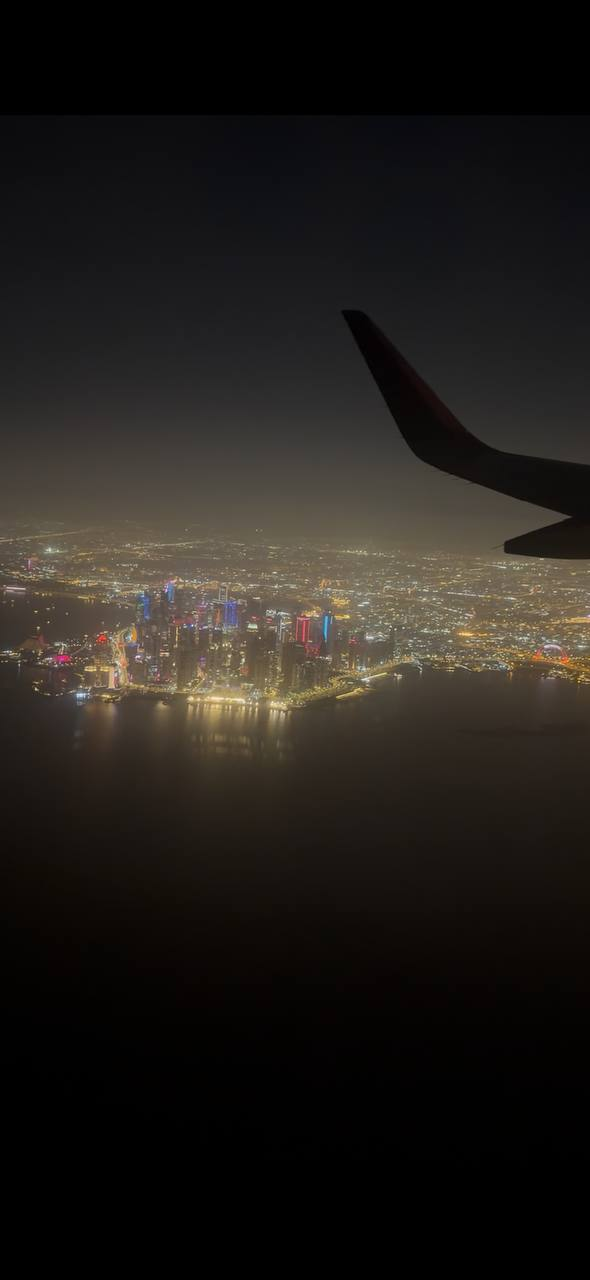
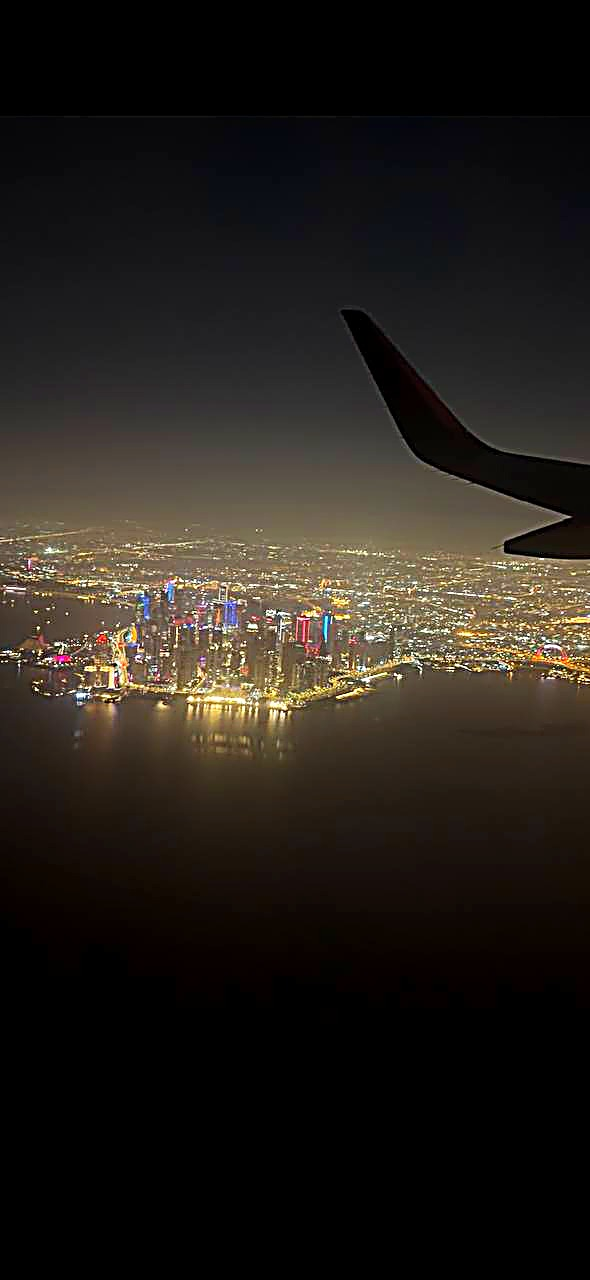
Fix bad crops on Outside the IDE gallery photos
- gaming.jpg was centered, cutting the sticky-note joke off mid-word;
  bottom-align it so the whole "STOP! NO" note reads
- movies.jpg centered crop pinned the title text to the very edge;
  nudge the crop up for breathing room
- travel.jpg was soft/hazy (night shot through a plane window);
  sharpened + boosted contrast/saturation on the source file so the
  skyline actually reads at thumbnail size

Claude-Session: https://claude.ai/code/session_01VvrXhT5jewqpwaxK1tPZWf

Changed region(s): [[0.0, 0.375, 1.0, 0.5938]]

diff --git a/index.html b/index.html
@@ -188,10 +188,10 @@
         </div>
         <div class="flex justify-center lg:justify-end">
           <div class="gallery" id="gallery" style="width:224px;height:224px">
-            <div class="gallery-card"><img src="images/travel.jpg" alt="Travel" draggable="false"></div>
-            <div class="gallery-card"><img src="images/gaming.jpg" alt="Gaming" draggable="false"></div>
+            <div class="gallery-card"><img src="images/travel.jpg" alt="Travel" draggable="false" style="object-position:50% 32%"></div>
+            <div class="gallery-card"><img src="images/gaming.jpg" alt="Gaming" draggable="false" style="object-position:50% 100%"></div>
             <div class="gallery-card"><img src="images/music.jpg" alt="Music" draggable="false"></div>
-            <div class="gallery-card"><img src="images/movies.jpg" alt="Movies" draggable="false"></div>
+            <div class="gallery-card"><img src="images/movies.jpg" alt="Movies" draggable="false" style="object-position:50% 40%"></div>
           </div>
         </div>
       </div>
